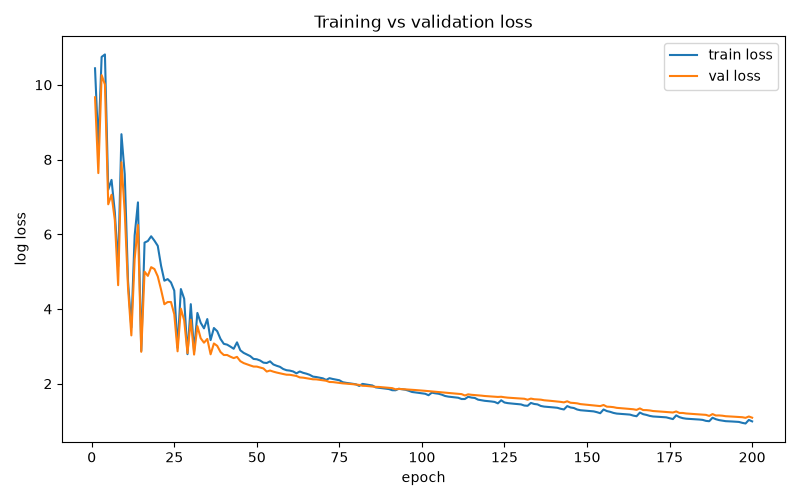
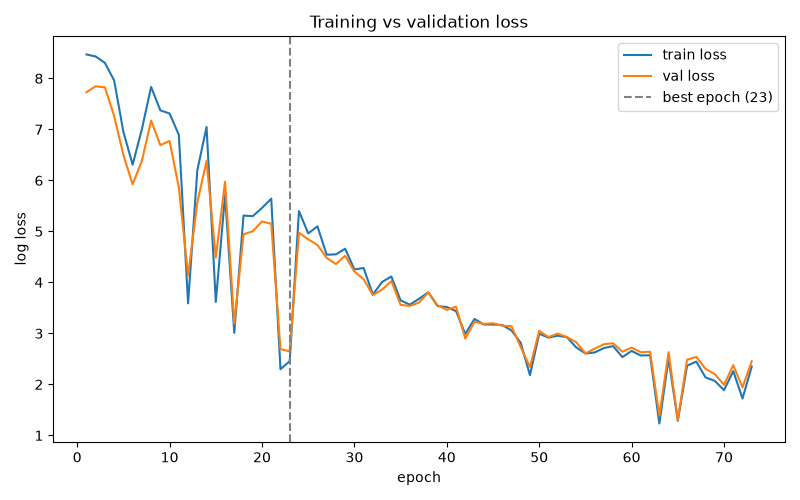
Improve model: label-aware feature selection, tuned decision threshold, PR-AUC early stopping

diff --git a/train.py b/train.py
@@ -7,6 +7,7 @@ Data is split 60/20/20 into train/val/test. The model is trained epoch by
 epoch via SGDClassifier.partial_fit so we can log train/val loss after
 every pass; the test set is never touched until final evaluation.
 """
+import copy
 import csv
 import json
 import os
@@ -15,6 +16,7 @@ import pickle
 import matplotlib.pyplot as plt
 import numpy as np
 import pandas as pd
+from sklearn.feature_selection import SelectKBest, f_classif
 from sklearn.impute import SimpleImputer
 from sklearn.linear_model import SGDClassifier
 from sklearn.preprocessing import StandardScaler
@@ -26,13 +28,14 @@ from sklearn.metrics import (
     f1_score,
     log_loss,
     precision_score,
+    precision_recall_curve,
     recall_score,
     roc_auc_score,
 )
 from sklearn.model_selection import train_test_split
 
 TOP_N_FEATURES = 20
-EPOCHS = 200
+EPOCHS = 500
 MODEL_PATH = "model.pkl"
 DATASET_PATH = "dataset/secom.csv"
 LOGS_DIR = "logs"
@@ -55,7 +58,7 @@ def load_and_split():
     return X_train, X_val, X_test, y_train, y_val, y_test
 
 
-def preprocess(X_train, X_val, X_test):
+def preprocess(X_train, X_val, X_test, y_train):
     # Fit imputer, feature selection, and scaler using TRAIN data only,
     # so no information from val/test leaks into preprocessing decisions.
     imputer = SimpleImputer(strategy="mean")
@@ -63,7 +66,13 @@ def preprocess(X_train, X_val, X_test):
     X_val_imputed = pd.DataFrame(imputer.transform(X_val), columns=X_val.columns)
     X_test_imputed = pd.DataFrame(imputer.transform(X_test), columns=X_test.columns)
 
-    top_features = X_train_imputed.var().sort_values(ascending=False).head(TOP_N_FEATURES).index.tolist()
+    # ANOVA F-test: how strongly does each feature's mean differ between the
+    # pass and fail groups? Unlike variance (which ignores the label
+    # entirely), this directly measures "does this feature actually carry
+    # signal about the thing we're trying to predict."
+    selector = SelectKBest(score_func=f_classif, k=TOP_N_FEATURES)
+    selector.fit(X_train_imputed, y_train)
+    top_features = X_train_imputed.columns[selector.get_support()].tolist()
     X_train_top = X_train_imputed[top_features]
     X_val_top = X_val_imputed[top_features]
     X_test_top = X_test_imputed[top_features]
@@ -79,7 +88,7 @@ def preprocess(X_train, X_val, X_test):
     return X_train_scaled, X_val_scaled, X_test_scaled, top_features, scaler
 
 
-def train_with_logging(X_train, y_train, X_val, y_val):
+def train_with_logging(X_train, y_train, X_val, y_val, patience=50):
     classes = np.array(sorted(y_train.unique()))
     # partial_fit doesn't accept class_weight="balanced" directly (it can't
     # recompute class frequencies from a single batch) -- so we compute the
@@ -87,19 +96,42 @@ def train_with_logging(X_train, y_train, X_val, y_val):
     weights = compute_class_weight("balanced", classes=classes, y=y_train)
     class_weight = dict(zip(classes, weights))
     model = SGDClassifier(loss="log_loss", class_weight=class_weight, random_state=42)
+    fail_idx_train = list(classes).index(1)
     rows = []
+    best_val_pr_auc = -float("inf")
+    best_epoch = 0
+    best_model = None
+    epochs_without_improvement = 0
     for epoch in range(1, EPOCHS + 1):
         # One partial_fit call per epoch = one full-batch gradient step.
         model.partial_fit(X_train, y_train, classes=classes)
         train_proba = model.predict_proba(X_train)
         val_proba = model.predict_proba(X_val)
+        # PR-AUC, not log loss, decides which epoch's model we keep. Log
+        # loss measures probability calibration; with class_weight
+        # "balanced" skewing probabilities to compensate for the 9:1
+        # imbalance, the best-calibrated epoch is not necessarily the epoch
+        # best at ranking fails above passes -- and ranking is what we
+        # actually care about for this problem.
+        val_pr_auc = average_precision_score(y_val, val_proba[:, fail_idx_train])
         rows.append({
             "epoch": epoch,
             "train_loss": log_loss(y_train, train_proba, labels=model.classes_),
             "val_loss": log_loss(y_val, val_proba, labels=model.classes_),
+            "val_pr_auc": val_pr_auc,
             "train_accuracy": accuracy_score(y_train, model.predict(X_train)),
             "val_accuracy": accuracy_score(y_val, model.predict(X_val)),
         })
+
+        if val_pr_auc > best_val_pr_auc:
+            best_val_pr_auc, best_epoch = val_pr_auc, epoch
+            best_model = copy.deepcopy(model)
+            epochs_without_improvement = 0
+        else:
+            epochs_without_improvement += 1
+            if epochs_without_improvement >= patience:
+                print(f"Early stopping at epoch {epoch} (no val PR-AUC improvement for {patience} epochs)")
+                break
 
     os.makedirs(LOGS_DIR, exist_ok=True)
     with open(f"{LOGS_DIR}/training_log.csv", "w", newline="") as f:
@@ -111,6 +143,7 @@ def train_with_logging(X_train, y_train, X_val, y_val):
     plt.figure(figsize=(8, 5))
     plt.plot(epochs, [r["train_loss"] for r in rows], label="train loss")
     plt.plot(epochs, [r["val_loss"] for r in rows], label="val loss")
+    plt.axvline(best_epoch, color="gray", linestyle="--", label=f"best epoch ({best_epoch})")
     plt.xlabel("epoch")
     plt.ylabel("log loss")
     plt.title("Training vs validation loss")
@@ -119,18 +152,39 @@ def train_with_logging(X_train, y_train, X_val, y_val):
     plt.savefig(f"{LOGS_DIR}/loss_curve.png")
     plt.close()
 
-    print(f"Final epoch -- train_loss={rows[-1]['train_loss']:.3f}  val_loss={rows[-1]['val_loss']:.3f}")
+    print(f"Stopped at epoch {epochs[-1]} -- best epoch {best_epoch} (val_pr_auc={best_val_pr_auc:.3f}), "
+          f"keeping that snapshot, not the final one.")
     print(f"Saved training log + loss curve to {LOGS_DIR}/")
-    return model
+    return best_model
 
 
-def evaluate_and_save(model, X_test, y_test):
-    y_pred = model.predict(X_test)
+def find_best_threshold(model, X_val, y_val):
+    # The default decision rule (predict "fail" once probability > 0.5) is
+    # arbitrary -- it's not tuned to our specific precision/recall trade-off.
+    # Sweep every threshold the validation set's probabilities actually
+    # produce, and keep whichever one maximizes F1. This never touches the
+    # test set, so the test metrics we report afterwards stay an honest,
+    # unbiased estimate.
+    fail_idx = list(model.classes_).index(1)
+    val_proba = model.predict_proba(X_val)[:, fail_idx]
+    precisions, recalls, thresholds = precision_recall_curve(y_val, val_proba)
+    f1_scores = 2 * precisions * recalls / (precisions + recalls + 1e-9)
+    best_idx = f1_scores[:-1].argmax()  # last point has no corresponding threshold
+    best_threshold = thresholds[best_idx]
+    print(f"Best threshold on val set: {best_threshold:.3f} (val F1={f1_scores[best_idx]:.3f}, "
+          f"vs F1={f1_scores[len(thresholds) // 2]:.3f} around the default 0.5 cutoff)")
+    return float(best_threshold)
+
+
+def evaluate_and_save(model, X_test, y_test, threshold):
     fail_idx = list(model.classes_).index(1)
     y_proba = model.predict_proba(X_test)[:, fail_idx]
+    pass_label = [c for c in model.classes_ if c != 1][0]
+    y_pred = np.where(y_proba >= threshold, 1, pass_label)
 
     cm = confusion_matrix(y_test, y_pred, labels=model.classes_)
     metrics = {
+        "decision_threshold": threshold,
         "accuracy": accuracy_score(y_test, y_pred),
         "precision": precision_score(y_test, y_pred, pos_label=1),
         "recall": recall_score(y_test, y_pred, pos_label=1),
@@ -149,21 +203,23 @@ def evaluate_and_save(model, X_test, y_test):
     with open(f"{METRICS_DIR}/evaluation_metrics.json", "w") as f:
         json.dump(metrics, f, indent=2)
 
-    print(f"Test metrics: precision={metrics['precision']:.3f}  recall={metrics['recall']:.3f}  "
-          f"f1={metrics['f1']:.3f}  roc_auc={metrics['roc_auc']:.3f}  pr_auc={metrics['pr_auc']:.3f}")
+    print(f"Test metrics @ threshold={threshold:.3f}: precision={metrics['precision']:.3f}  "
+          f"recall={metrics['recall']:.3f}  f1={metrics['f1']:.3f}  roc_auc={metrics['roc_auc']:.3f}  "
+          f"pr_auc={metrics['pr_auc']:.3f}")
     print(f"Saved evaluation metrics to {METRICS_DIR}/evaluation_metrics.json")
 
 
 def main():
     X_train, X_val, X_test, y_train, y_val, y_test = load_and_split()
-    X_train, X_val, X_test, top_features, scaler = preprocess(X_train, X_val, X_test)
+    X_train, X_val, X_test, top_features, scaler = preprocess(X_train, X_val, X_test, y_train)
 
     model = train_with_logging(X_train, y_train, X_val, y_val)
-    evaluate_and_save(model, X_test, y_test)
+    threshold = find_best_threshold(model, X_val, y_val)
+    evaluate_and_save(model, X_test, y_test, threshold)
 
     with open(MODEL_PATH, "wb") as f:
-        pickle.dump({"model": model, "features": top_features, "scaler": scaler}, f)
-    print(f"Saved model + feature list + scaler to {MODEL_PATH}")
+        pickle.dump({"model": model, "features": top_features, "scaler": scaler, "threshold": threshold}, f)
+    print(f"Saved model + feature list + scaler + threshold to {MODEL_PATH}")
 
 
 if __name__ == "__main__":

diff --git a/app.py b/app.py
@@ -14,6 +14,9 @@ with open(MODEL_PATH, "rb") as f:
 model = artifact["model"]
 feature_names = artifact["features"]
 scaler = artifact["scaler"]
+threshold = artifact["threshold"]
+fail_idx = list(model.classes_).index(1)
+pass_label = [c for c in model.classes_ if c != 1][0]
 
 
 class PredictRequest(BaseModel):
@@ -37,8 +40,11 @@ class PredictResponse(BaseModel):
 def predict(request: PredictRequest):
     row = pd.DataFrame([[request.features[name] for name in feature_names]], columns=feature_names)
     row_scaled = pd.DataFrame(scaler.transform(row), columns=feature_names)
-    prediction = int(model.predict(row_scaled)[0])
-    fail_probability = float(model.predict_proba(row_scaled)[0][list(model.classes_).index(1)])
+    fail_probability = float(model.predict_proba(row_scaled)[0][fail_idx])
+    # Use the F1-optimal threshold tuned on the validation set during
+    # training, not the model's built-in 0.5 default -- see train.py's
+    # find_best_threshold().
+    prediction = 1 if fail_probability >= threshold else int(pass_label)
     return PredictResponse(prediction=prediction, fail_probability=fail_probability)
 
 